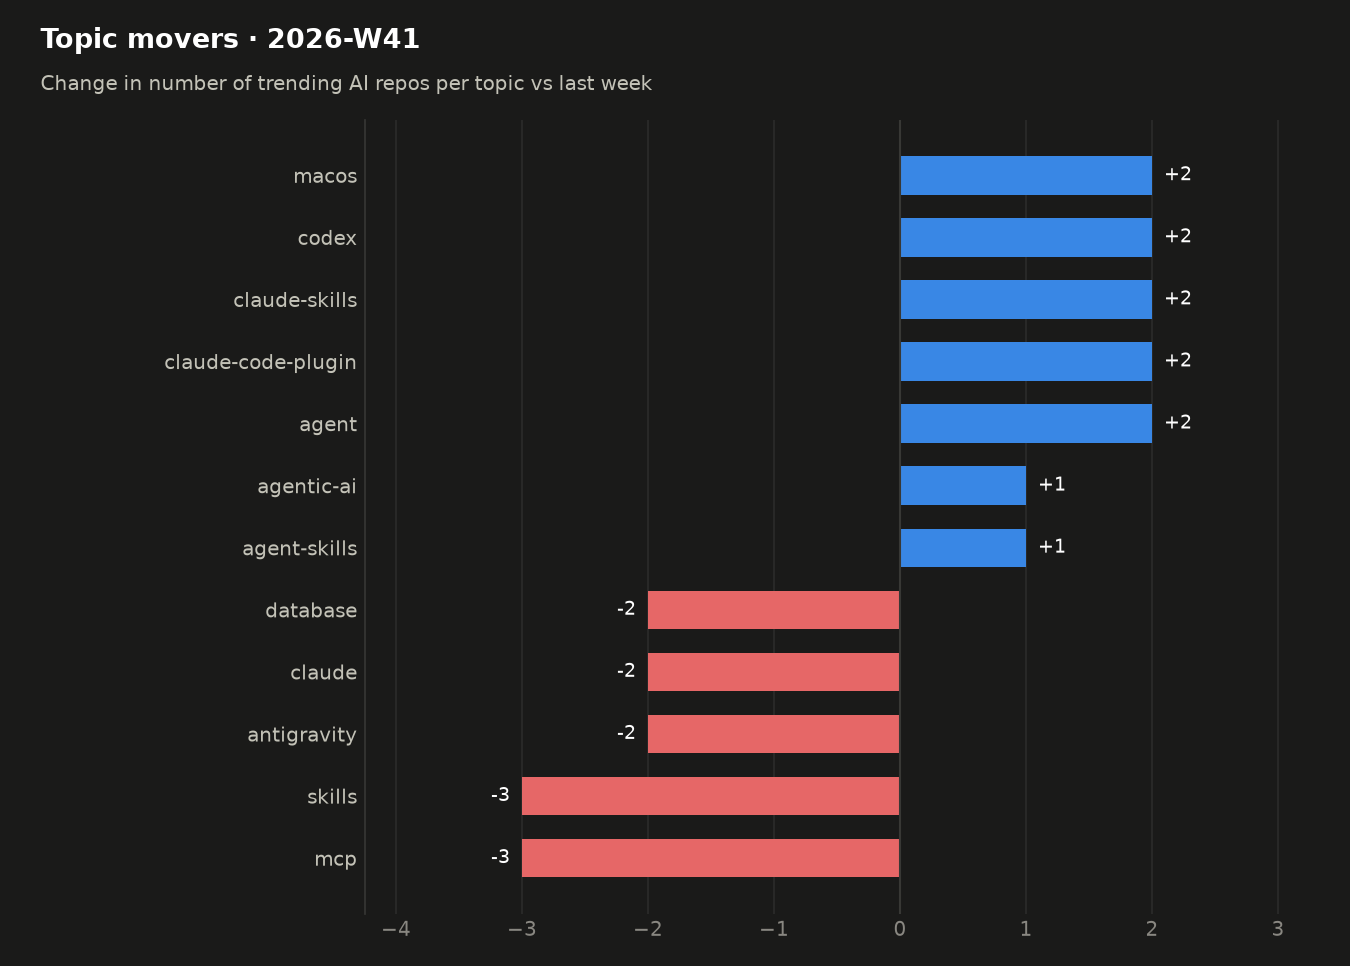
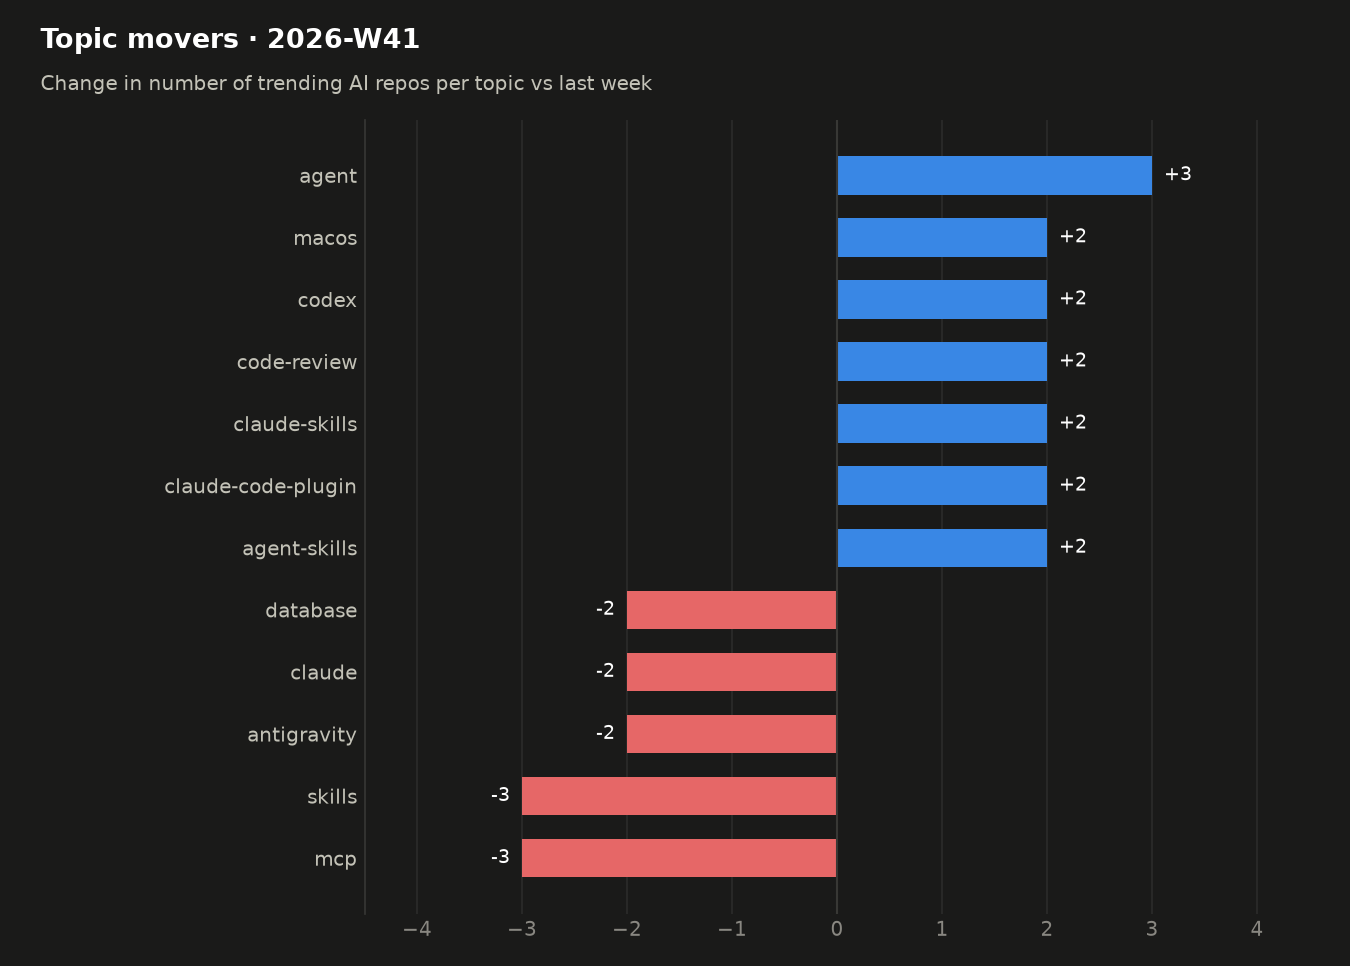
trending: snapshot 2026-10-10

diff --git a/README.md b/README.md
@@ -7,28 +7,32 @@ Every morning a GitHub Actions workflow reads the GitHub trending page, looks up
 ## Live view
 
 <!-- TRACKER_START -->
-### 🔥 AI repos trending today · 2026-10-09
+### 🔥 AI repos trending today · 2026-10-10
 
-6 of 9 trending repositories are AI-related.
+10 of 11 trending repositories are AI-related.
 
 | # | Repo | Language | ⭐ today | ⭐ total | Topics |
 |--:|---|---|--:|--:|---|
-| 2 | [cathrynlavery/diagram-design](https://github.com/cathrynlavery/diagram-design)<br><sub>Sponsor Star cathrynlavery / diagram-design Editorial diagram design for Claude Code, Code…</sub> | HTML | 1,160 | 47,069 | `agent-skills` `claude-code` `codex` `data-visualization` |
-| 3 | [morluto/rea](https://github.com/morluto/rea)<br><sub>Star morluto / rea Reverse engineer anything with agents, from app behavior down to native…</sub> | TypeScript | 7,738 | 32,394 | `agent-skills` `ai-agents` `binary-analysis` `claude-code` |
-| 4 | [mattpocock/skills](https://github.com/mattpocock/skills)<br><sub>Sponsor Star mattpocock / skills Skills for Real Engineers. Straight from my .agents direc…</sub> | Shell | 1,774 | 281,720 | – |
-| 5 | [thedotmack/claude-mem](https://github.com/thedotmack/claude-mem)<br><sub>Sponsor Star thedotmack / claude-mem Persistent Context Across Sessions for Every Agent – …</sub> | TypeScript | 670 | 98,772 | `ai` `ai-agents` `ai-memory` `anthropic` |
-| 7 | [anthropics/knowledge-work-plugins](https://github.com/anthropics/knowledge-work-plugins)<br><sub>Star anthropics / knowledge-work-plugins Open source repository of plugins primarily inten…</sub> | Python | 392 | 27,894 | – |
-| 8 | [storytold/artcraft](https://github.com/storytold/artcraft)<br><sub>Star storytold / artcraft ArtCraft is an intentional crafting engine for artists, designer…</sub> | Rust | 2,103 | 9,235 | `3d-graphics` `ai` `aivideo` `filmmaking` |
+| 1 | [morluto/rea](https://github.com/morluto/rea)<br><sub>Star morluto / rea Reverse engineer anything with agents, from app behavior down to native…</sub> | TypeScript | 14,927 | 56,107 | `agent-skills` `ai-agents` `binary-analysis` `claude-code` |
+| 3 | [mattpocock/skills](https://github.com/mattpocock/skills)<br><sub>Sponsor Star mattpocock / skills Skills for Real Engineers. Straight from my .agents direc…</sub> | Shell | 1,687 | 283,329 | – |
+| 4 | [cathrynlavery/diagram-design](https://github.com/cathrynlavery/diagram-design)<br><sub>Sponsor Star cathrynlavery / diagram-design Editorial diagram design for Claude Code, Code…</sub> | HTML | 1,739 | 48,281 | `agent-skills` `claude-code` `codex` `data-visualization` |
+| 5 | [alibaba/open-code-review](https://github.com/alibaba/open-code-review)<br><sub>Star alibaba / open-code-review Secure, fast, efficient, battle-tested at Alibaba's scale.…</sub> | Go | 326 | 45,588 | `agent` `agent-skills` `code-review` `code-review-assistant` |
+| 6 | [anthropics/knowledge-work-plugins](https://github.com/anthropics/knowledge-work-plugins)<br><sub>Star anthropics / knowledge-work-plugins Open source repository of plugins primarily inten…</sub> | Python | 709 | 28,478 | – |
+| 7 | [BerriAI/litellm](https://github.com/BerriAI/litellm)<br><sub>Sponsor Star BerriAI / litellm The fastest, litest AI Gateway. Rust core with Python SDK. …</sub> | Python | 95 | 60,815 | `ai-gateway` `anthropic` `azure-openai` `bedrock` |
+| 8 | [addyosmani/agent-skills](https://github.com/addyosmani/agent-skills)<br><sub>Star addyosmani / agent-skills Production-grade engineering skills for AI coding agents.</sub> | JavaScript | 436 | 104,218 | `agent-skills` `antigravity` `claude-code` `codex` |
+| 9 | [storytold/artcraft](https://github.com/storytold/artcraft)<br><sub>Star storytold / artcraft ArtCraft is an intentional crafting engine for artists, designer…</sub> | Rust | 3,752 | 12,406 | `3d-graphics` `ai` `aivideo` `filmmaking` |
+| 10 | [Robbyant/lingbot-map](https://github.com/Robbyant/lingbot-map)<br><sub>Star Robbyant / lingbot-map [ECCV 2026 Best Paper Award Candidate] LingBot-Map: Geometric …</sub> | Python | 110 | 17,838 | – |
+| 11 | [twostraws/SwiftUI-Agent-Skill](https://github.com/twostraws/SwiftUI-Agent-Skill)<br><sub>Star twostraws / SwiftUI-Agent-Skill SwiftUI agent skill for Claude Code, Codex, and other…</sub> | – | 65 | 5,602 | – |
 
 ### 📊 This week so far · 2026-W41
 
 #### Summary
 
-- **24** distinct AI repos trended over 5 day(s) (last week: 29)
-- AI share of all trending slots: **70%** (-8 pts vs last week)
-- Dominant language: **JavaScript** (29% of AI repos)
-- Rising topics: `agent` (+2), `claude-code-plugin` (+2), `claude-skills` (+2), `codex` (+2), `macos` (+2)
-- New this week: `agent`, `macos`
+- **28** distinct AI repos trended over 6 day(s) (last week: 29)
+- AI share of all trending slots: **73%** (-5 pts vs last week)
+- No single dominant language: JavaScript, Python tied at 7 repo(s) each
+- Rising topics: `agent` (+3), `agent-skills` (+2), `claude-code-plugin` (+2), `claude-skills` (+2), `code-review` (+2)
+- New this week: `agent`, `openai`, `code-review`, `macos`
 
 #### Languages
 
@@ -36,15 +40,16 @@ Every morning a GitHub Actions workflow reads the GitHub trending page, looks up
 
 | Language | Repos | Share | Last week |
 |---|--:|--:|--:|
-| JavaScript | 7 | 29% | 5 |
-| Python | 5 | 21% | 8 |
-| TypeScript | 4 | 17% | 9 |
-| Shell | 2 | 8% | 2 |
-| Rust | 2 | 8% | 2 |
+| JavaScript | 7 | 25% | 5 |
+| Python | 7 | 25% | 8 |
+| TypeScript | 4 | 14% | 9 |
+| Shell | 2 | 7% | 2 |
+| Rust | 2 | 7% | 2 |
 | C | 1 | 4% | 1 |
 | Cuda | 1 | 4% | 0 |
 | HTML | 1 | 4% | 0 |
 | Swift | 1 | 4% | 0 |
+| Go | 1 | 4% | 1 |
 
 #### Topics
 
@@ -54,35 +59,35 @@ Every morning a GitHub Actions workflow reads the GitHub trending page, looks up
 |---|--:|
 | `claude-code` | 8 |
 | `codex` | 6 |
+| `agent-skills` | 6 |
 | `claude` | 5 |
-| `agent-skills` | 5 |
 | `ai-agents` | 4 |
 | `developer-tools` | 4 |
 | `claude-code-plugin` | 4 |
-| `mcp` | 3 |
 | `cursor` | 3 |
+| `mcp` | 3 |
 | `cli` | 3 |
+| `agent` | 3 |
 | `claude-skills` | 3 |
-| `ai-agent` | 2 |
 
 #### Most persistent AI repos
 
 | Repo | Language | Days trending | Stars gained | Total stars |
 |---|---|--:|--:|--:|
 | [thedotmack/claude-mem](https://github.com/thedotmack/claude-mem) | TypeScript | 5 | 2,944 | 98,772 |
-| [morluto/rea](https://github.com/morluto/rea) | TypeScript | 3 | 15,349 | 32,394 |
+| [morluto/rea](https://github.com/morluto/rea) | TypeScript | 4 | 30,276 | 56,107 |
+| [mattpocock/skills](https://github.com/mattpocock/skills) | Shell | 4 | 5,753 | 283,329 |
+| [cathrynlavery/diagram-design](https://github.com/cathrynlavery/diagram-design) | HTML | 4 | 3,952 | 48,281 |
 | [DuarteSantos8/openGym](https://github.com/DuarteSantos8/openGym) | JavaScript | 3 | 4,345 | 7,507 |
-| [mattpocock/skills](https://github.com/mattpocock/skills) | Shell | 3 | 4,066 | 281,720 |
-| [cathrynlavery/diagram-design](https://github.com/cathrynlavery/diagram-design) | HTML | 3 | 2,213 | 47,069 |
+| [addyosmani/agent-skills](https://github.com/addyosmani/agent-skills) | JavaScript | 3 | 1,449 | 104,218 |
 | [earthtojake/text-to-cad](https://github.com/earthtojake/text-to-cad) | Python | 3 | 1,139 | 18,162 |
+| [storytold/artcraft](https://github.com/storytold/artcraft) | Rust | 2 | 5,855 | 12,406 |
 | [Panniantong/Agent-Reach](https://github.com/Panniantong/Agent-Reach) | Python | 2 | 2,135 | 92,214 |
 | [pbakaus/impeccable](https://github.com/pbakaus/impeccable) | JavaScript | 2 | 1,787 | 77,943 |
-| [msitarzewski/agency-agents](https://github.com/msitarzewski/agency-agents) | Shell | 2 | 1,367 | 158,021 |
-| [addyosmani/agent-skills](https://github.com/addyosmani/agent-skills) | JavaScript | 2 | 1,013 | 103,092 |
 
 ➡ Last full weekly analysis: [2026-W40](reports/weekly/2026-W40.md) · [all reports](reports/weekly)
 
-_Tracking since 2026-10-01 · 9 day(s) of data · [raw data](data/trending.csv)_
+_Tracking since 2026-10-01 · 10 day(s) of data · [raw data](data/trending.csv)_
 <!-- TRACKER_END -->
 
 ## How it works
